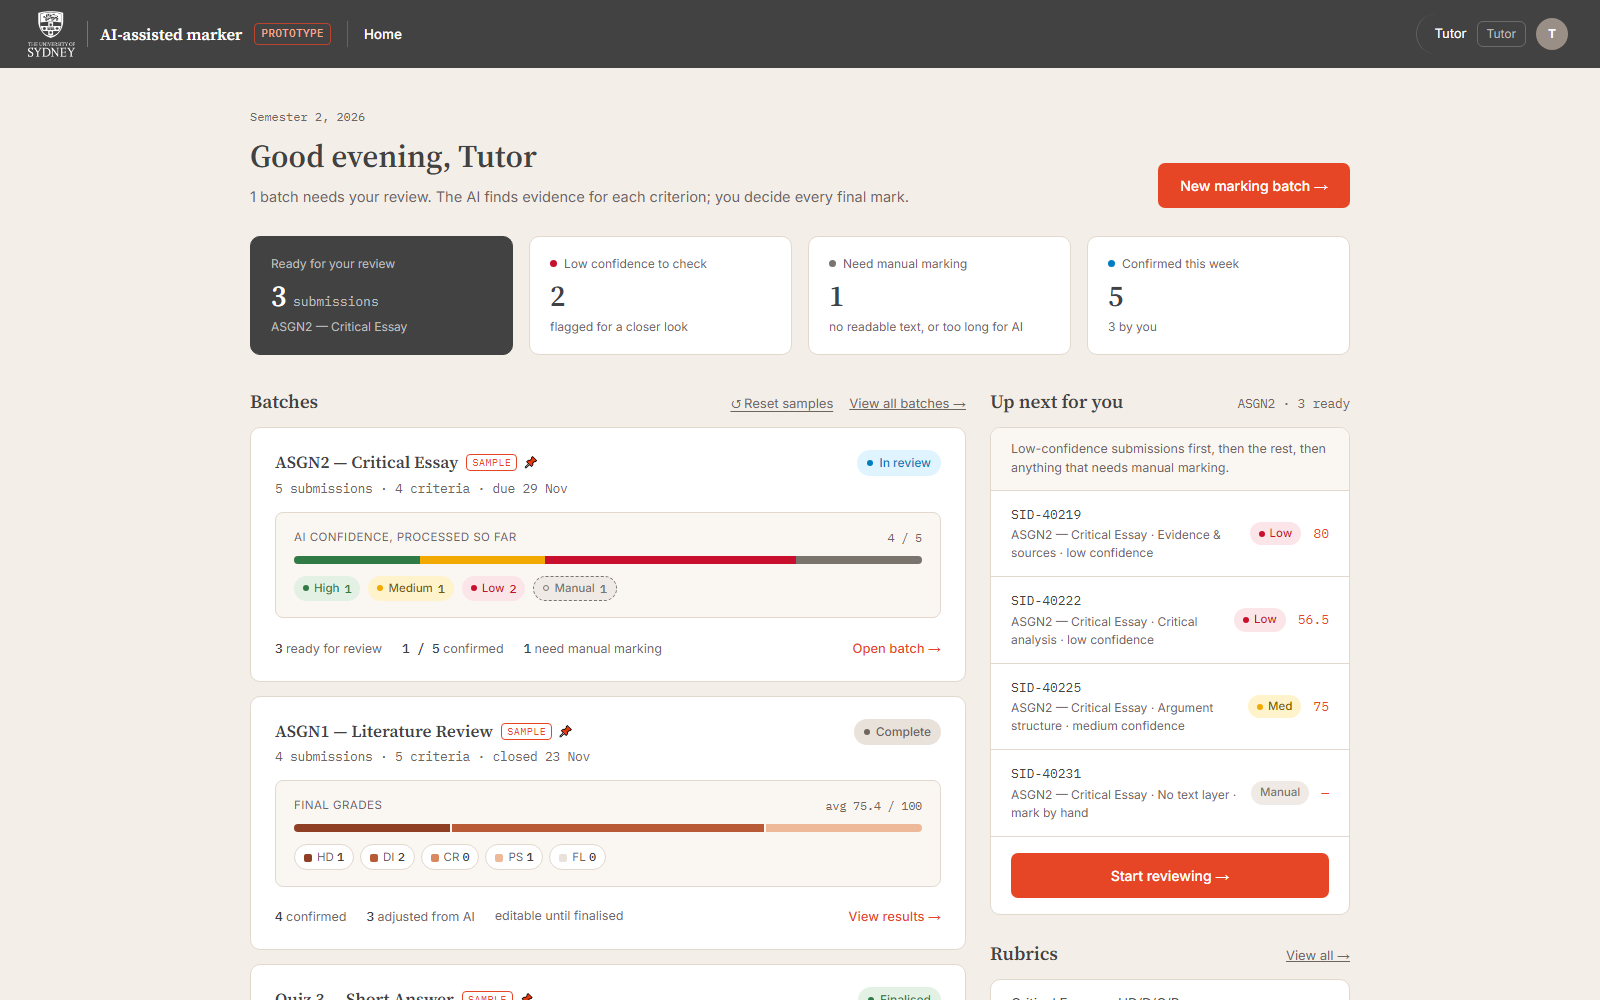
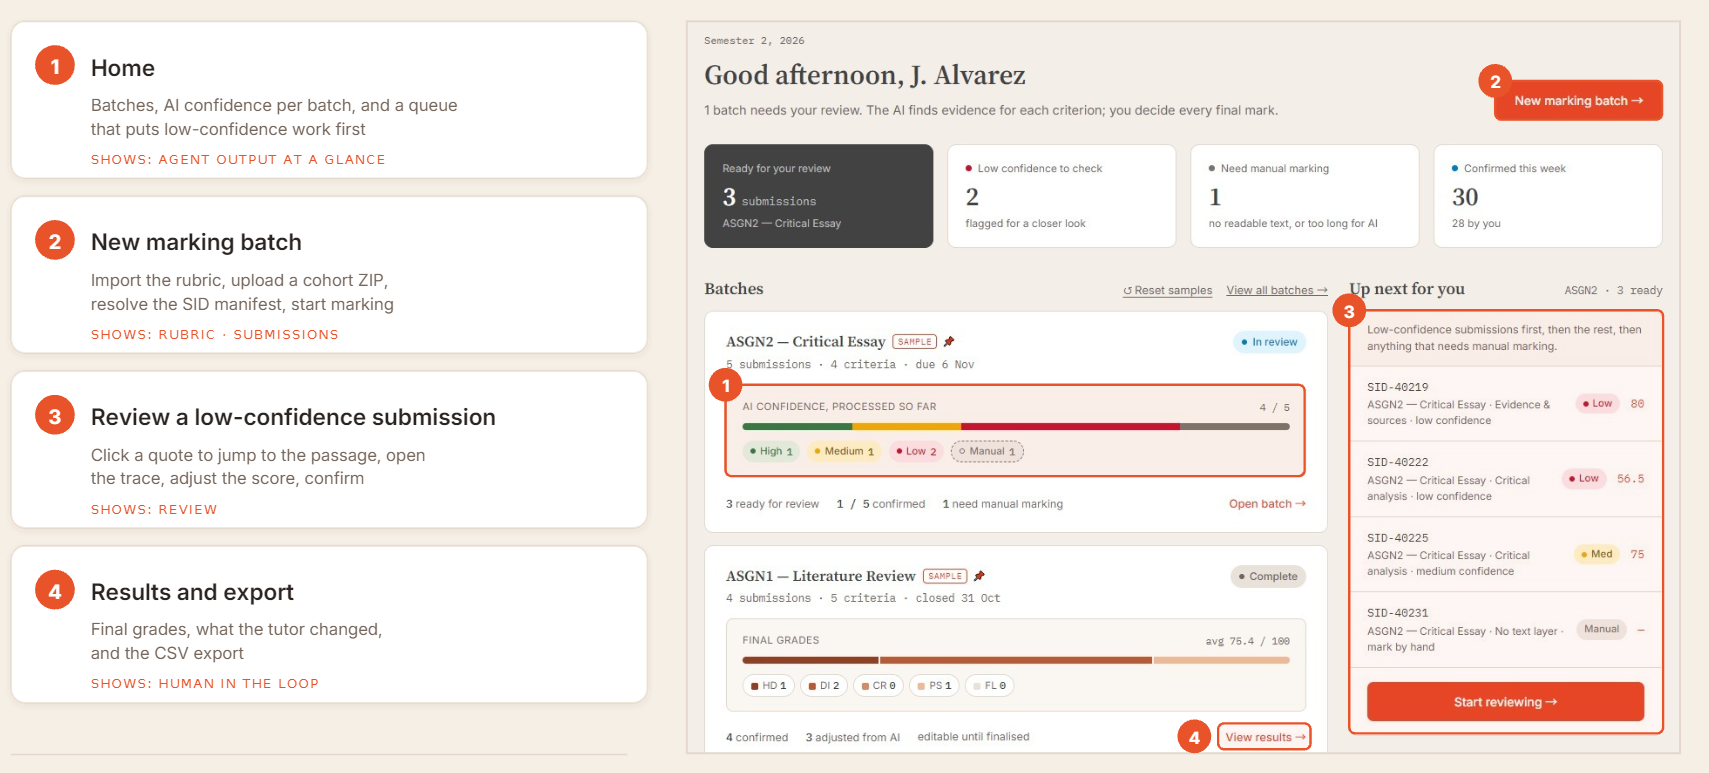
docs: use annotated product walkthrough screenshots

Changed region(s): [[0.0, 0.0, 1.0, 1.0], [0.0625, 0.652, 0.125, 0.6831], [0.9375, 0.4968, 0.9688, 0.5278]]

diff --git a/README.md b/README.md
@@ -4,19 +4,19 @@ Local-first skeleton for a University of Sydney tutor workflow: create a batch, 
 
 The product contract is [contracts/openapi.yaml](contracts/openapi.yaml), the module map is [docs/ARCHITECTURE.md](docs/ARCHITECTURE.md), and the frozen UI baseline is `prototype/`. Do not edit the prototype.
 
-## Product preview
+## Product walkthrough
 
-### Tutor dashboard
+### Workflow overview
 
-See active marking batches, confidence flags, manual-review work and the next submissions requiring attention.
+The Home page surfaces batch confidence and puts low-confidence work first, while the numbered walkthrough shows the path from a new marking batch to reviewed results.
 
-![Tutor dashboard showing active batches, confidence levels and the review queue](docs/images/product-home.png)
+![Annotated workflow overview showing the Home dashboard, marking queue and the four main steps](docs/images/product-home.png)
 
 ### Evidence-linked criterion review
 
-Compare the original submission with criterion-level evidence, score suggestions and tutor controls in one workspace.
+Read one criterion at a time, jump between verified quotes and the original submission, inspect how the evidence was found, then edit and confirm as the tutor.
 
-![Split-screen criterion review showing the original submission beside evidence and score controls](docs/images/product-review.png)
+![Annotated review workspace showing criterion levels, verified evidence, scoring rationale and tutor controls](docs/images/product-review.png)
 
 ## Quick start
 
